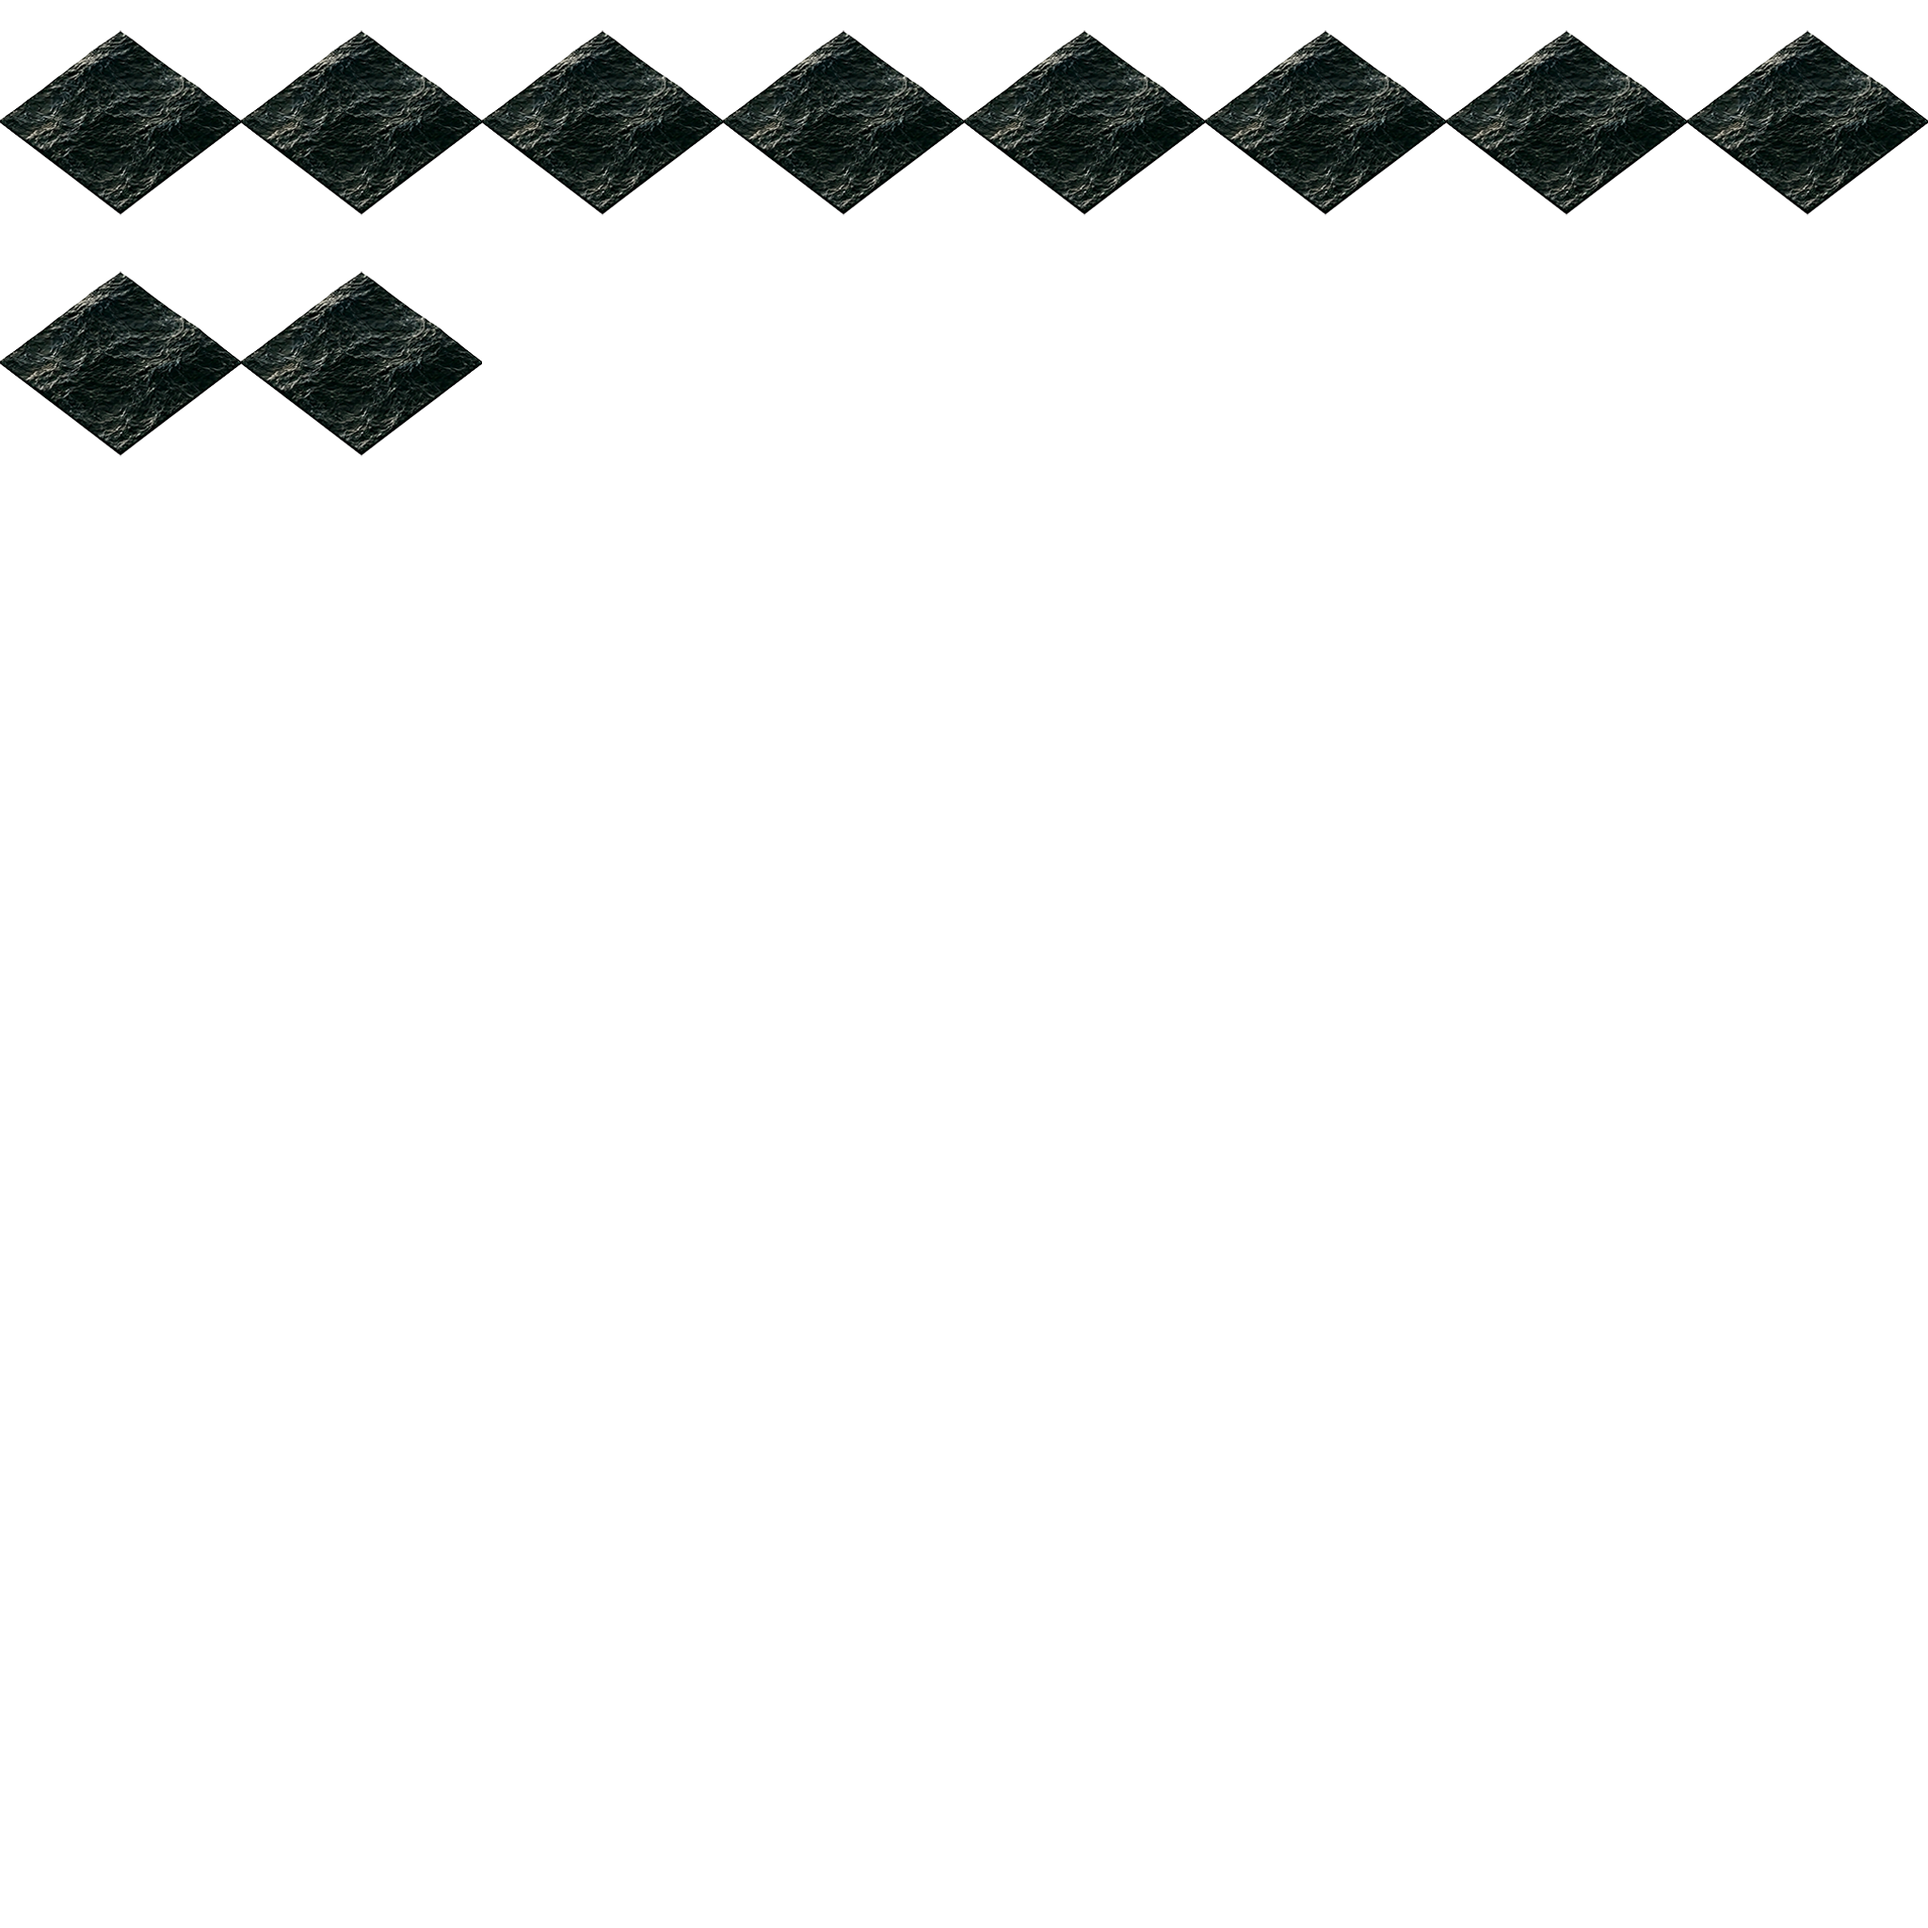
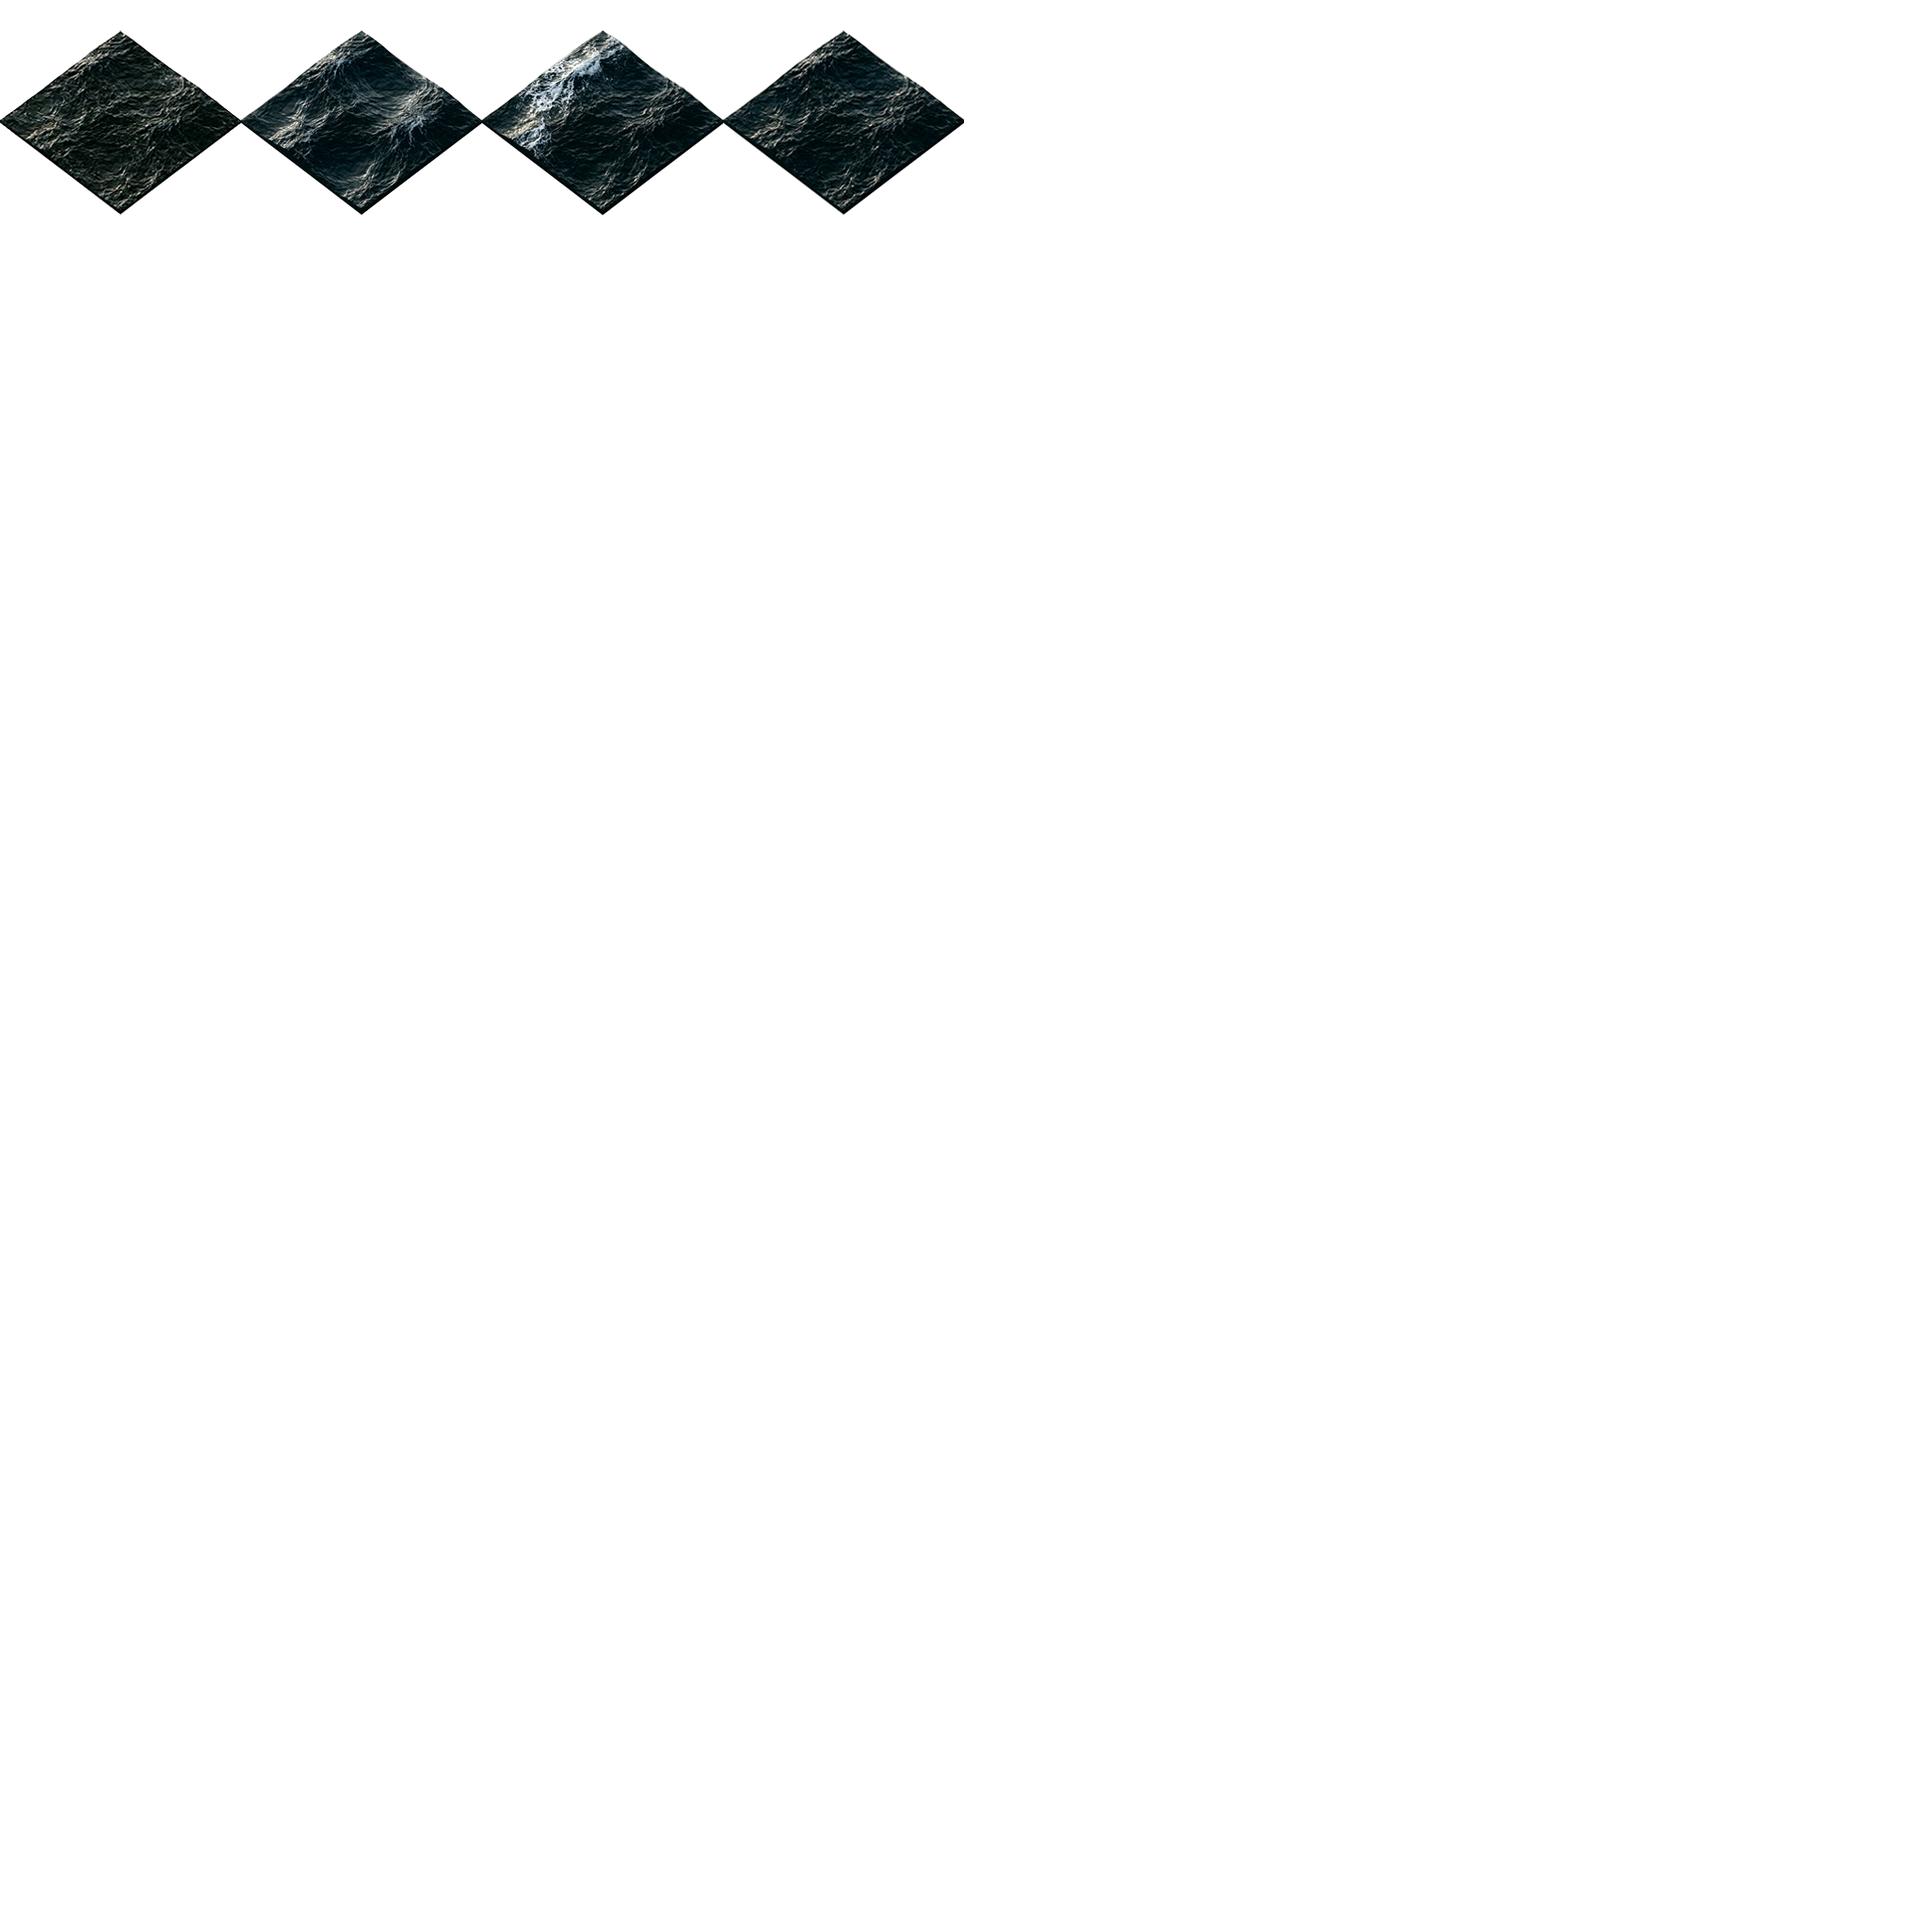
feat: per-cell tile variant selection via cellHash (4 ocean variants)
- terrainToAtlasIndex() uses cellHash(col, row, seed) for deterministic
  per-cell variant selection (no visible pattern, same seed = same map)
- Water cells pick from frames 0-3 (4 variants o1-o4)
- SurfaceScene skips null frame indices (transparent cells)
- Test atlas: o1-pos0, o2-pos1, o3-pos2, o4-pos3

Changed region(s): [[0.0, 0.0, 1.0, 0.25]]

diff --git a/packages/client/src/game/scenes/surface-utils.ts b/packages/client/src/game/scenes/surface-utils.ts
@@ -127,8 +127,58 @@ export function classifyCellTerrain(
 }
 
 /**
- * Map TerrainType → atlas terrain key (used to look up TERRAIN_FRAME).
- * Handles terrain name differences between core types and atlas naming.
+ * Fast deterministic hash for a grid cell.
+ * Used to pick tile variants without external RNG state.
+ */
+function cellHash(col: number, row: number, seed: number): number {
+  let h = (col * 374761393 + row * 1234567891 + seed * 2654435761) | 0;
+  h = Math.imul(h ^ (h >>> 16), 0x45d9f3b);
+  h = Math.imul(h ^ (h >>> 16), 0x45d9f3b);
+  return (h ^ (h >>> 16)) >>> 0;
+}
+
+/**
+ * Map TerrainType + cell position → atlas frame index.
+ *
+ * Atlas layout (current):
+ *   0-3  : water variants (o1–o4)  ← 4-way random per cell
+ *   4-5  : ground_a / ground_b     ← checkerboard
+ *   6    : hills
+ *   7    : rock / mountains
+ *   8    : peaks
+ *   9    : special (volcano, ice, etc.)
+ *   16-23: feature decals
+ *
+ * Returns null if the frame slot is not yet populated (transparent → skip).
+ */
+export function terrainToAtlasIndex(
+  terrain: TerrainType,
+  col: number,
+  row: number,
+  seed: number,
+): number | null {
+  const h = cellHash(col, row, seed);
+  switch (terrain) {
+    case 'deep_ocean':
+    case 'ocean':
+    case 'coast':
+    case 'beach':
+      return h % 4;                              // picks variant 0, 1, 2 or 3
+    case 'lowland':
+    case 'plains':
+      return TERRAIN_FRAME['ground_a'] !== undefined
+        ? (col + row) % 2 === 0 ? 4 : 5
+        : null;                                  // null = no tile yet
+    case 'hills':      return 6;
+    case 'mountains':  return 7;
+    case 'peaks':      return 8;
+    default:           return null;
+  }
+}
+
+/**
+ * @deprecated — use terrainToAtlasIndex() instead.
+ * Kept for reference; no longer used by SurfaceScene.
  */
 export function terrainToAtlasKey(terrain: TerrainType, col: number, row: number): string {
   switch (terrain) {

diff --git a/packages/client/src/game/scenes/SurfaceScene.ts b/packages/client/src/game/scenes/SurfaceScene.ts
@@ -28,11 +28,11 @@ import { SeededRNG } from '@nebulife/core';
 import {
   TILE_W, TILE_H, FRAME_W, FRAME_H, ATLAS_COLS,
   SPRITE_ANCHOR_Y, TILE_SCALE,
-  TERRAIN_FRAME, FEATURE_FRAME,
+  FEATURE_FRAME,
   computeIsoGridSize,
   gridToScreen,
   classifyCellTerrain,
-  terrainToAtlasKey,
+  terrainToAtlasIndex,
   isLandTerrain,
   isWaterTerrain,
   isCellBuildable,
@@ -150,10 +150,9 @@ export class SurfaceScene {
       const colMax = Math.min(d, N - 1);
       for (let col = colMin; col <= colMax; col++) {
         const row = d - col;
-        const terrain   = classifyCellTerrain(col, row, seed, wl);
-        const atlasKey  = terrainToAtlasKey(terrain, col, row);
-        const frameIdx  = TERRAIN_FRAME[atlasKey] ?? TERRAIN_FRAME['ground_a'];
-        const tex       = this.getFrame(frameIdx);
+        const terrain  = classifyCellTerrain(col, row, seed, wl);
+        const frameIdx = terrainToAtlasIndex(terrain, col, row, seed);
+        const tex      = frameIdx !== null ? this.getFrame(frameIdx) : null;
         const { x, y }  = gridToScreen(col, row);
         const baseY     = y + TILE_H / 2;
 
